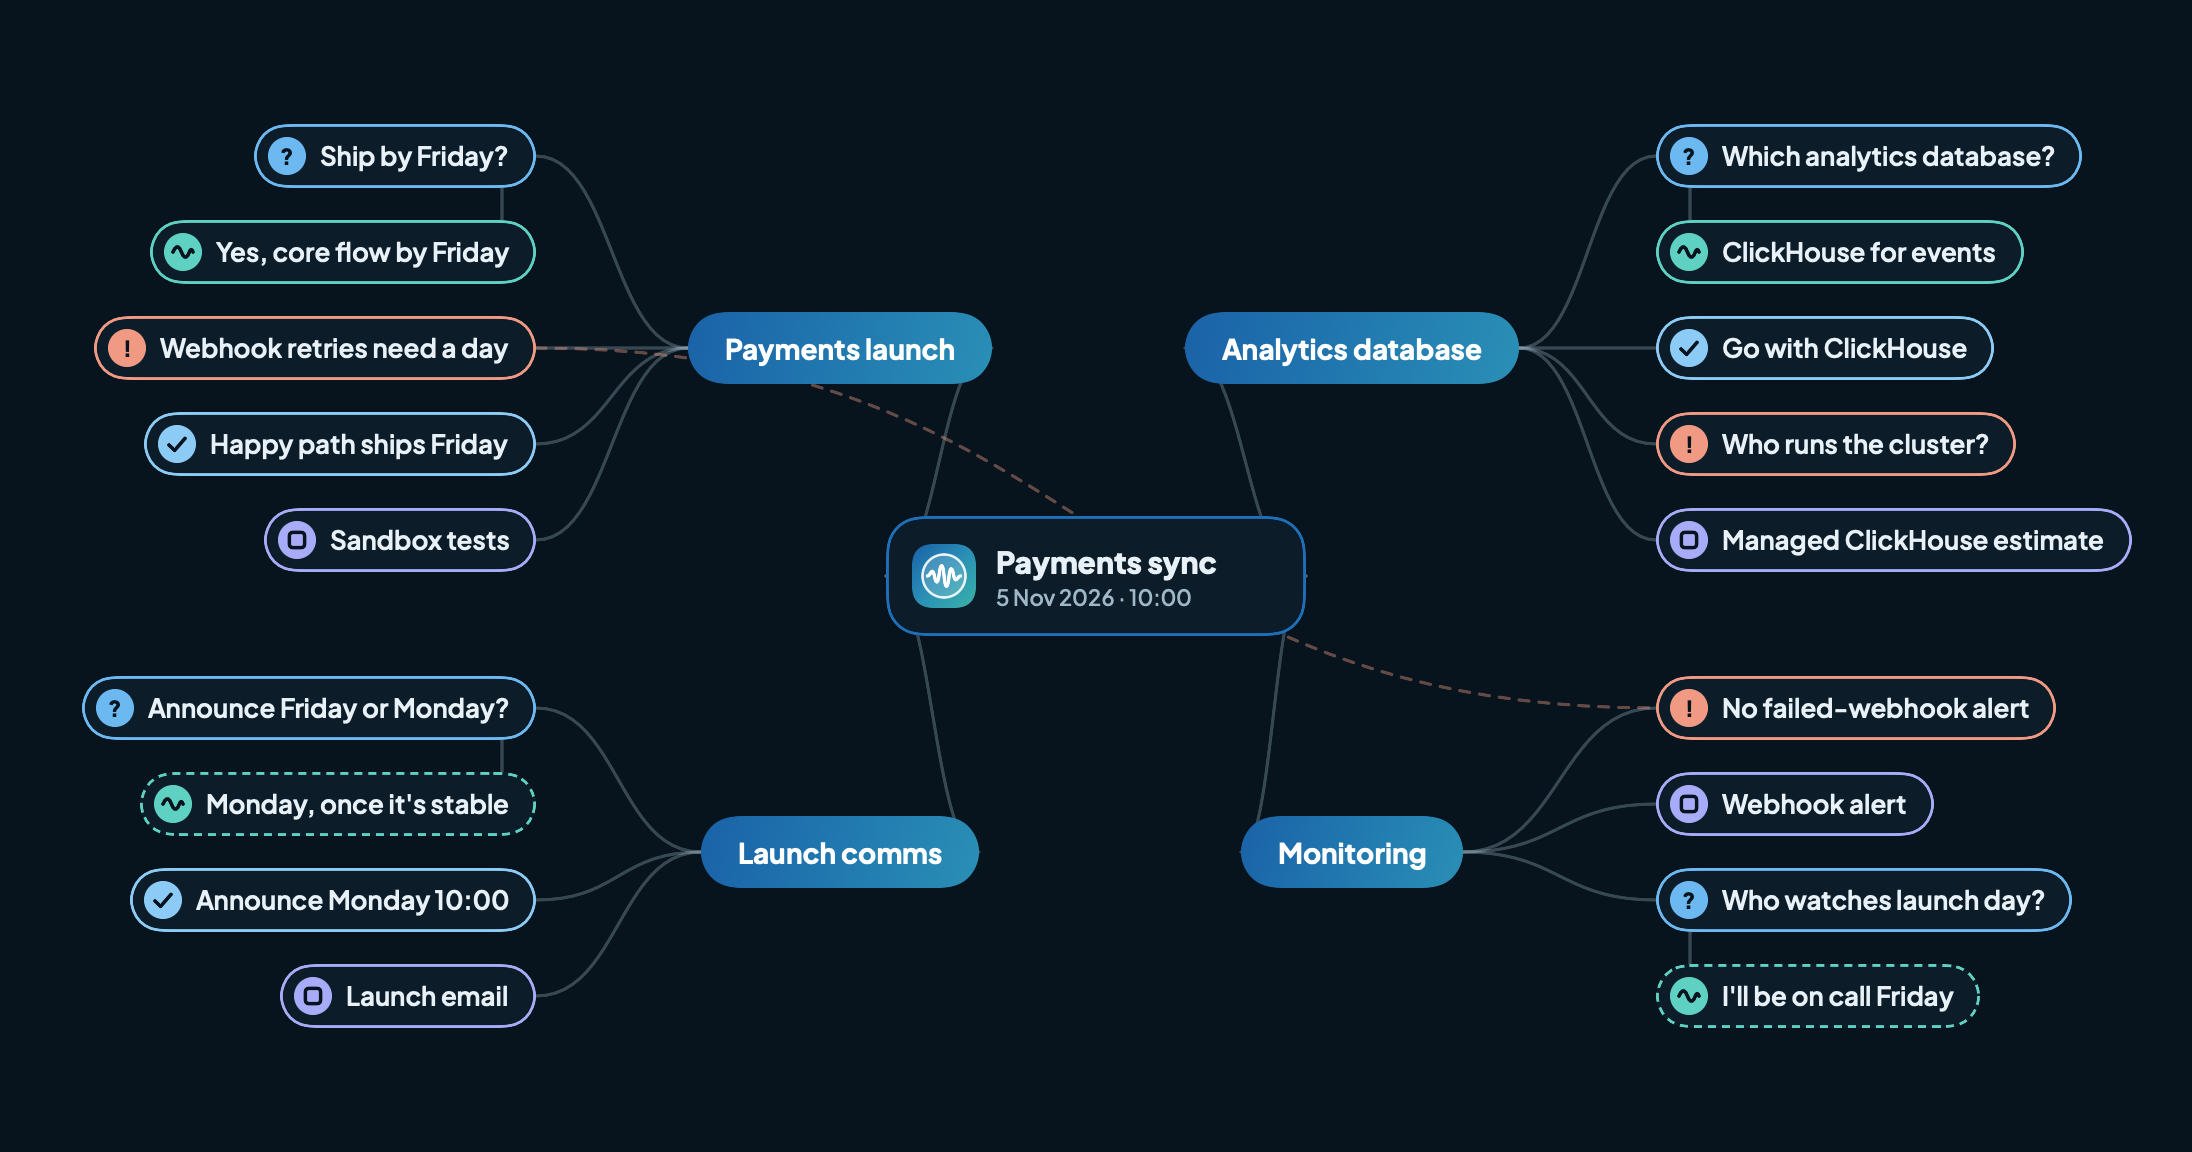
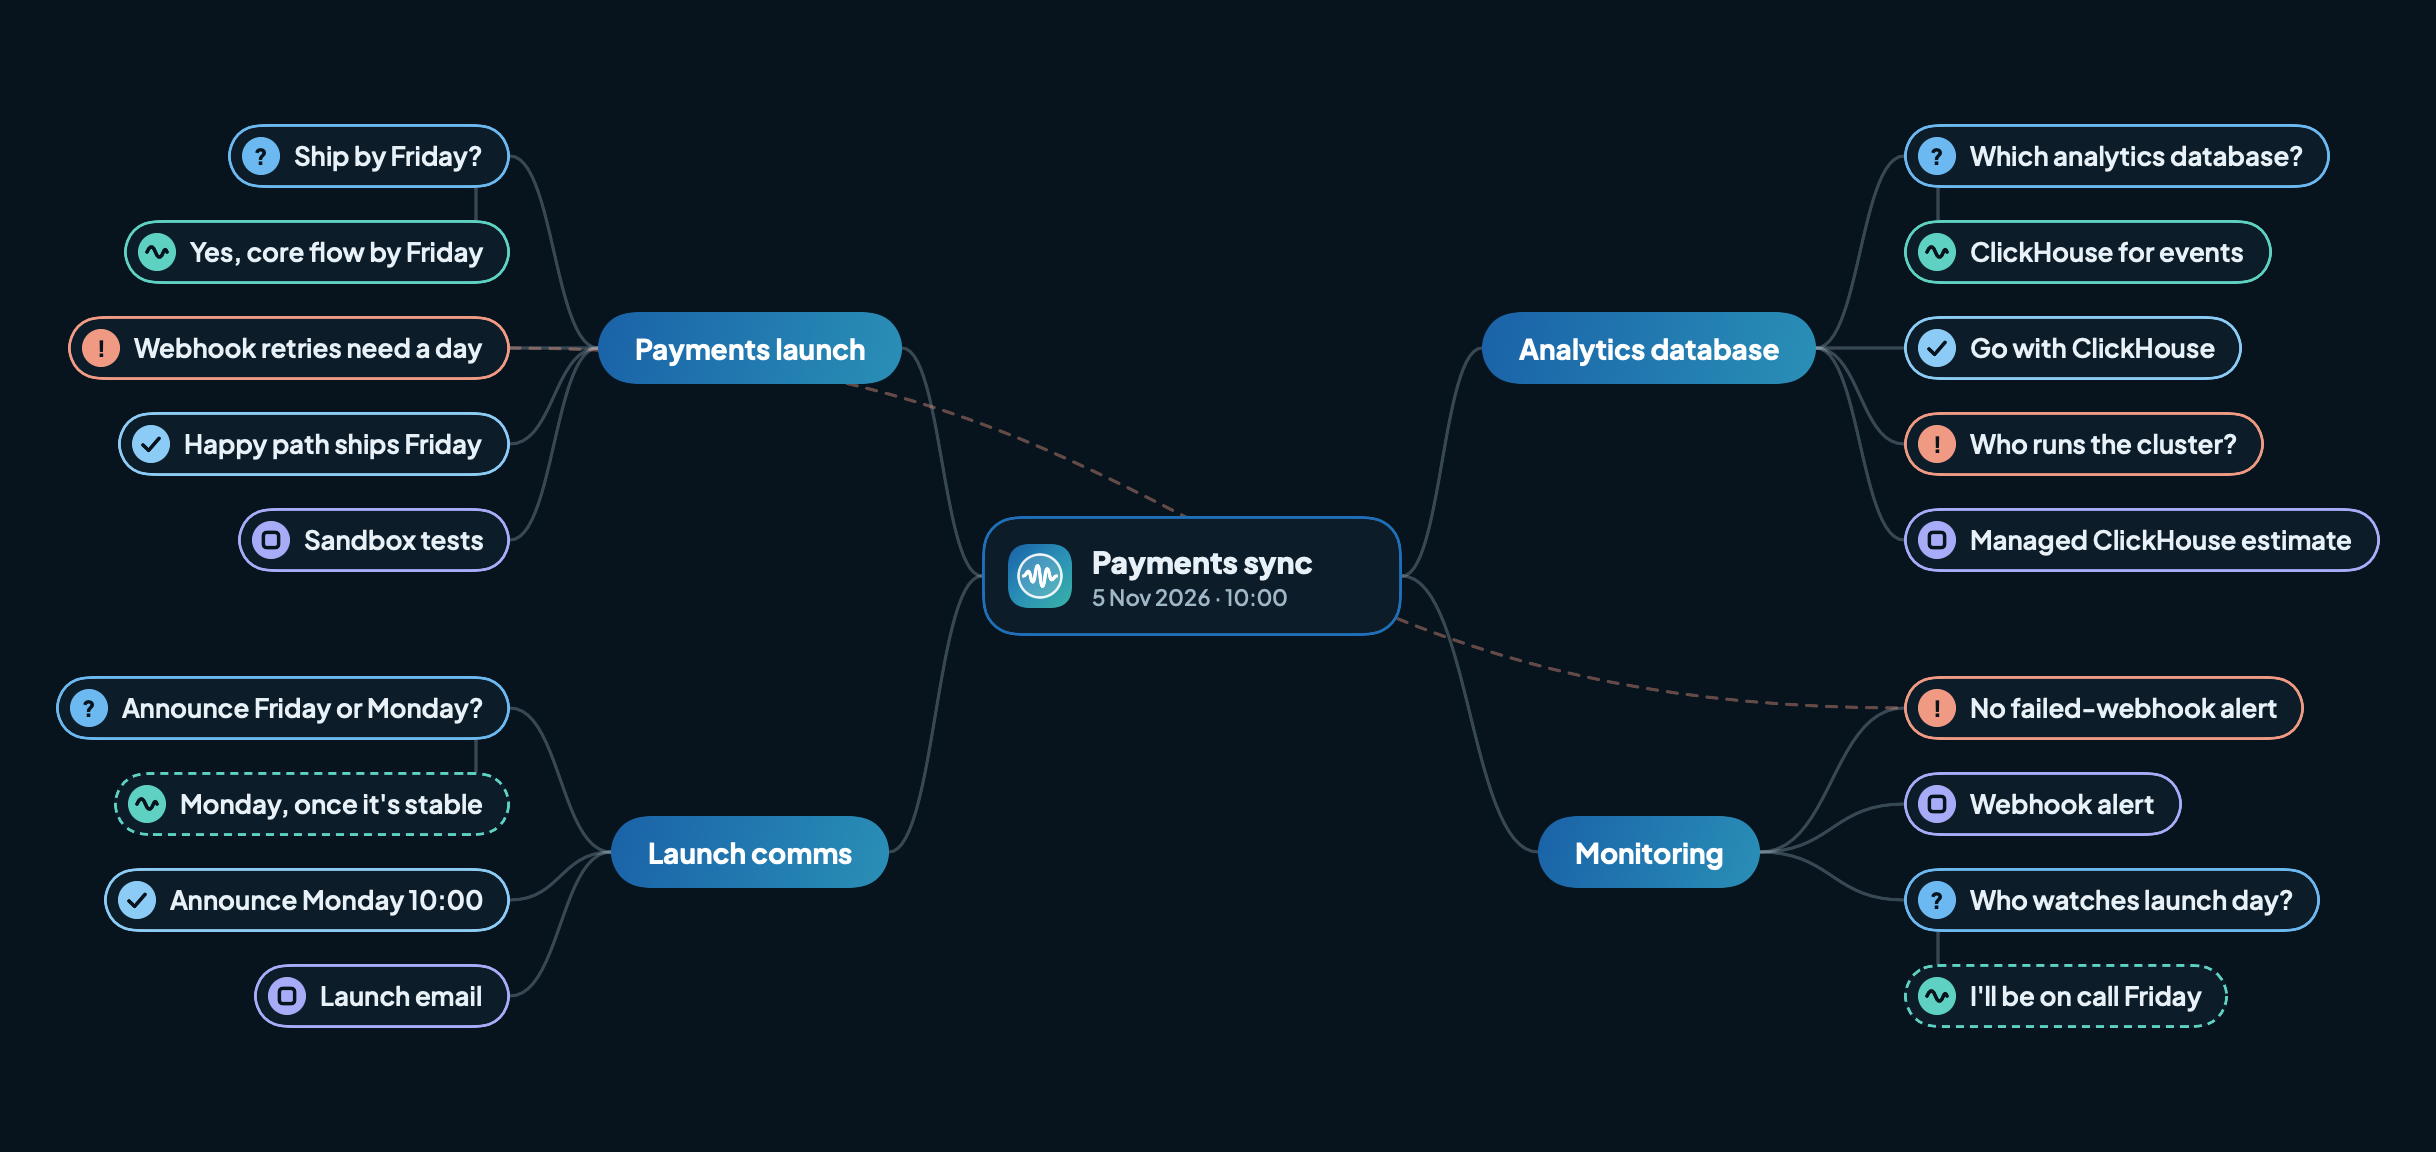
docs(site): redraw the map picture with the new layout

diff --git a/docs/index.html b/docs/index.html
@@ -584,7 +584,7 @@
         <div class="frame">
           <picture>
             <source srcset="assets/map-dark.png" media="(prefers-color-scheme: dark)">
-            <img src="assets/map.png" width="1096" height="576" loading="lazy" decoding="async"
+            <img src="assets/map.png" width="1218" height="576" loading="lazy" decoding="async"
                  alt="A meeting map: four topics around the meeting (payments launch, analytics database, launch comms, monitoring), each with its questions, answers, decisions, action items and risks">
           </picture>
         </div>
